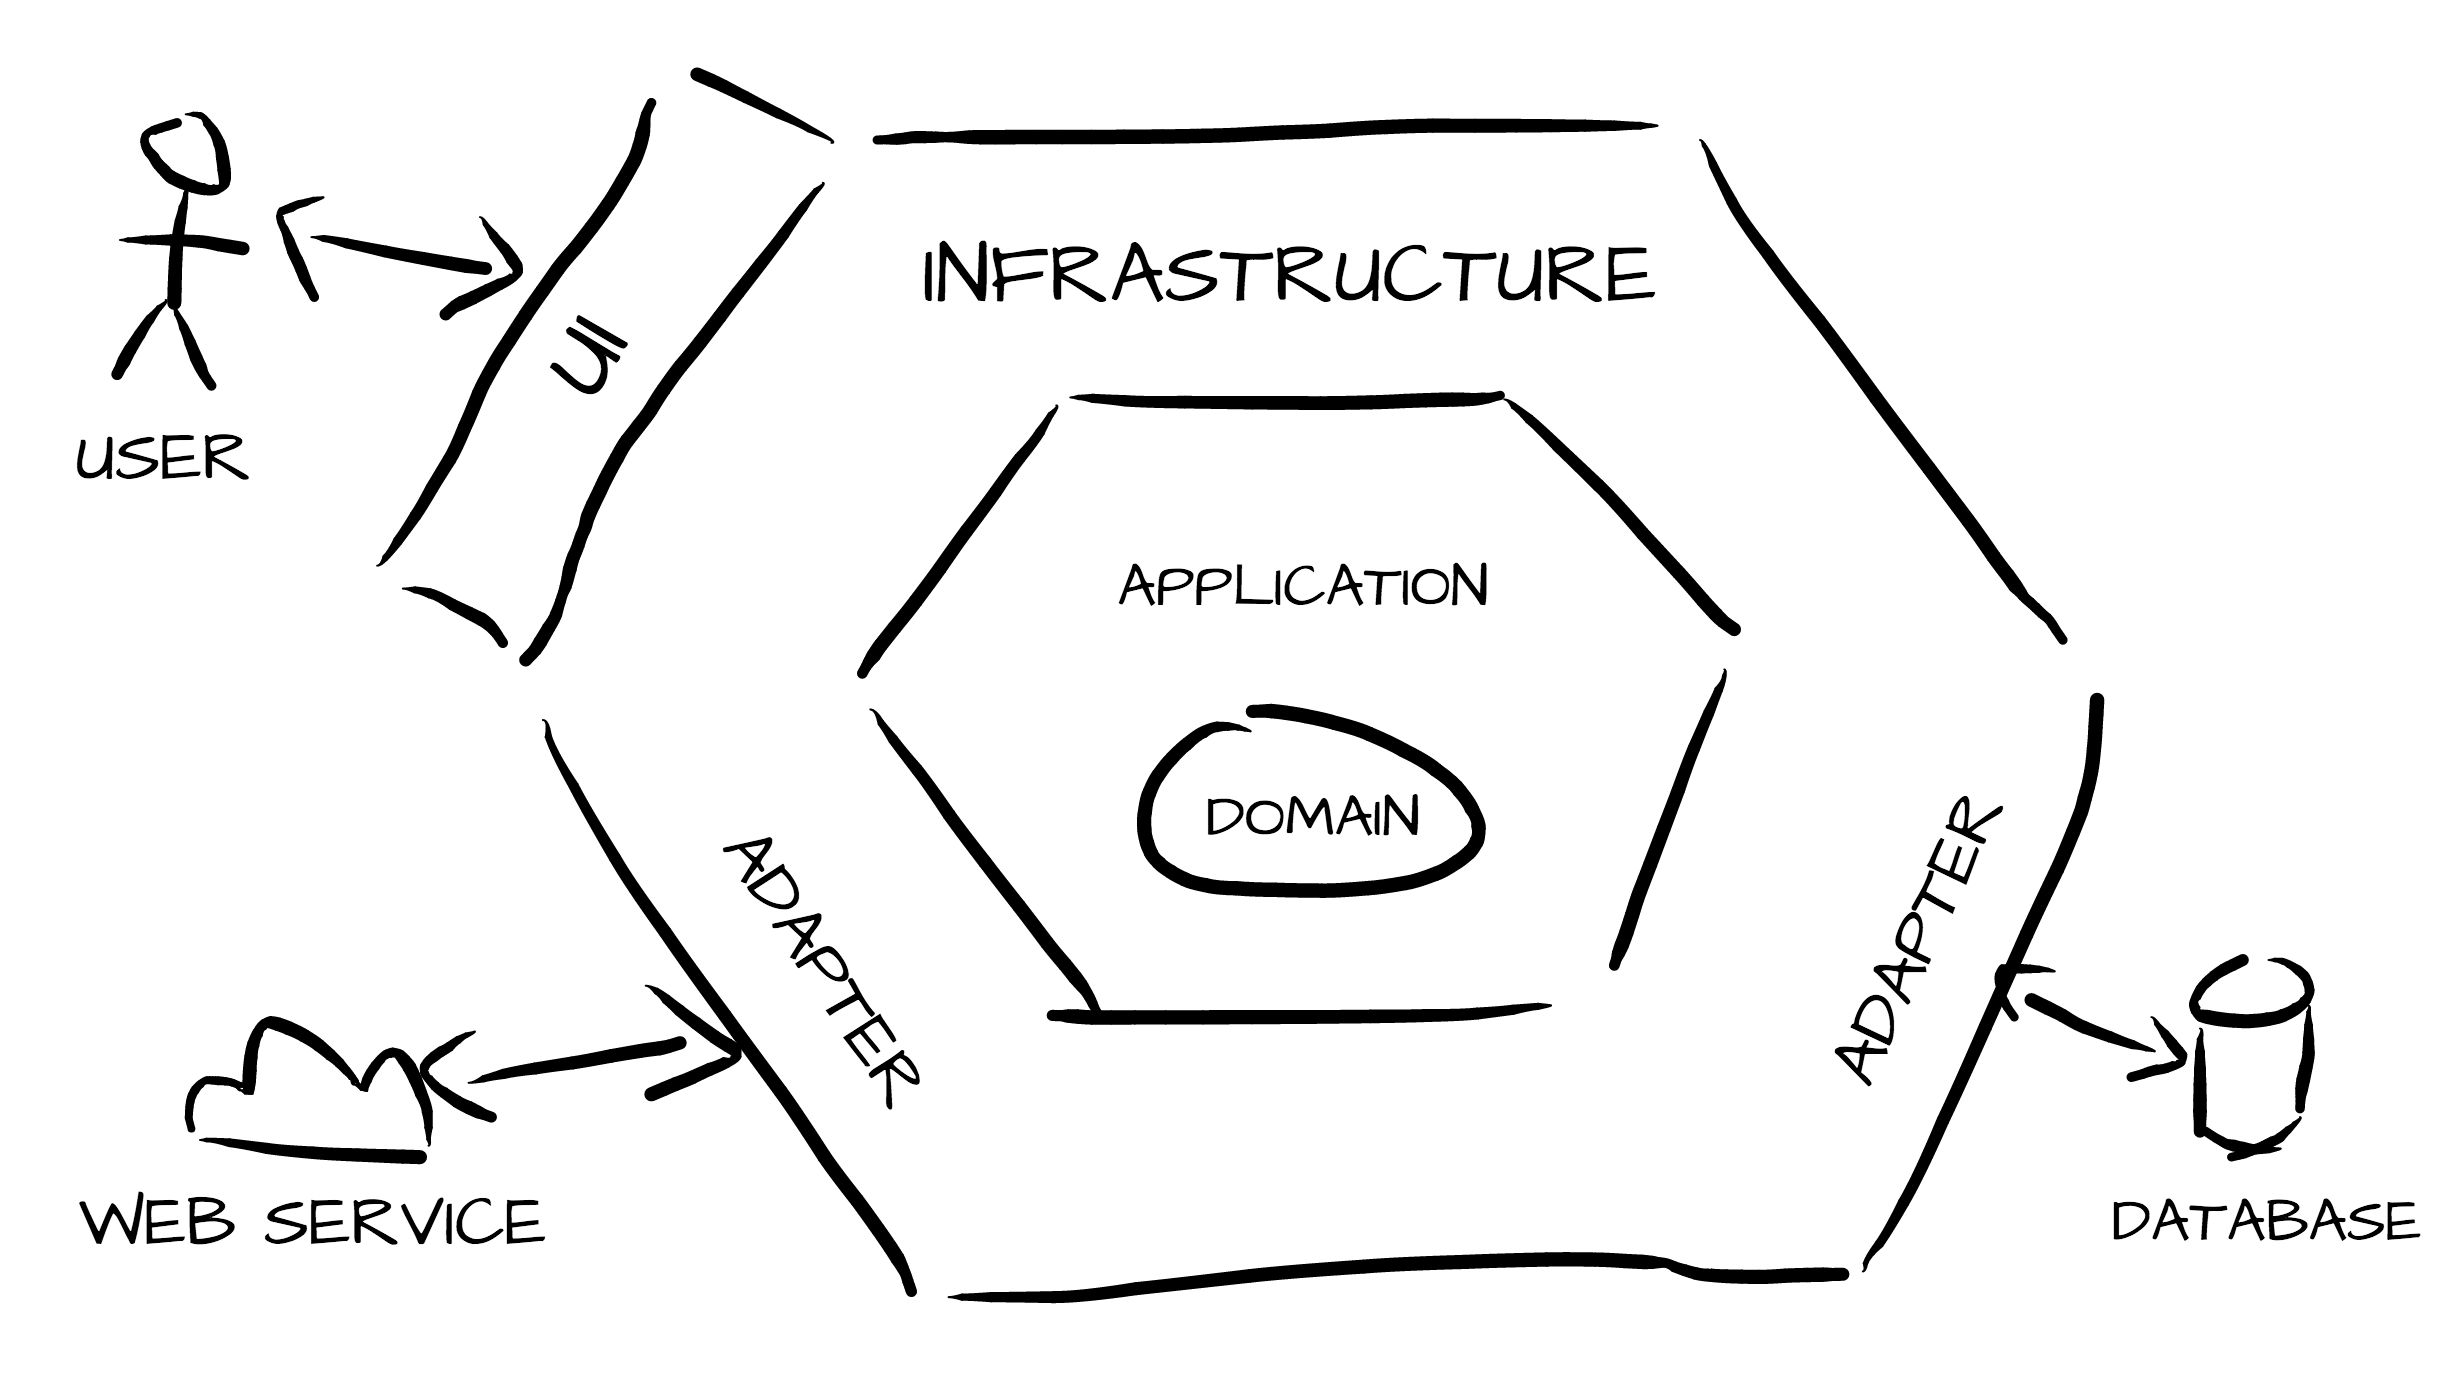
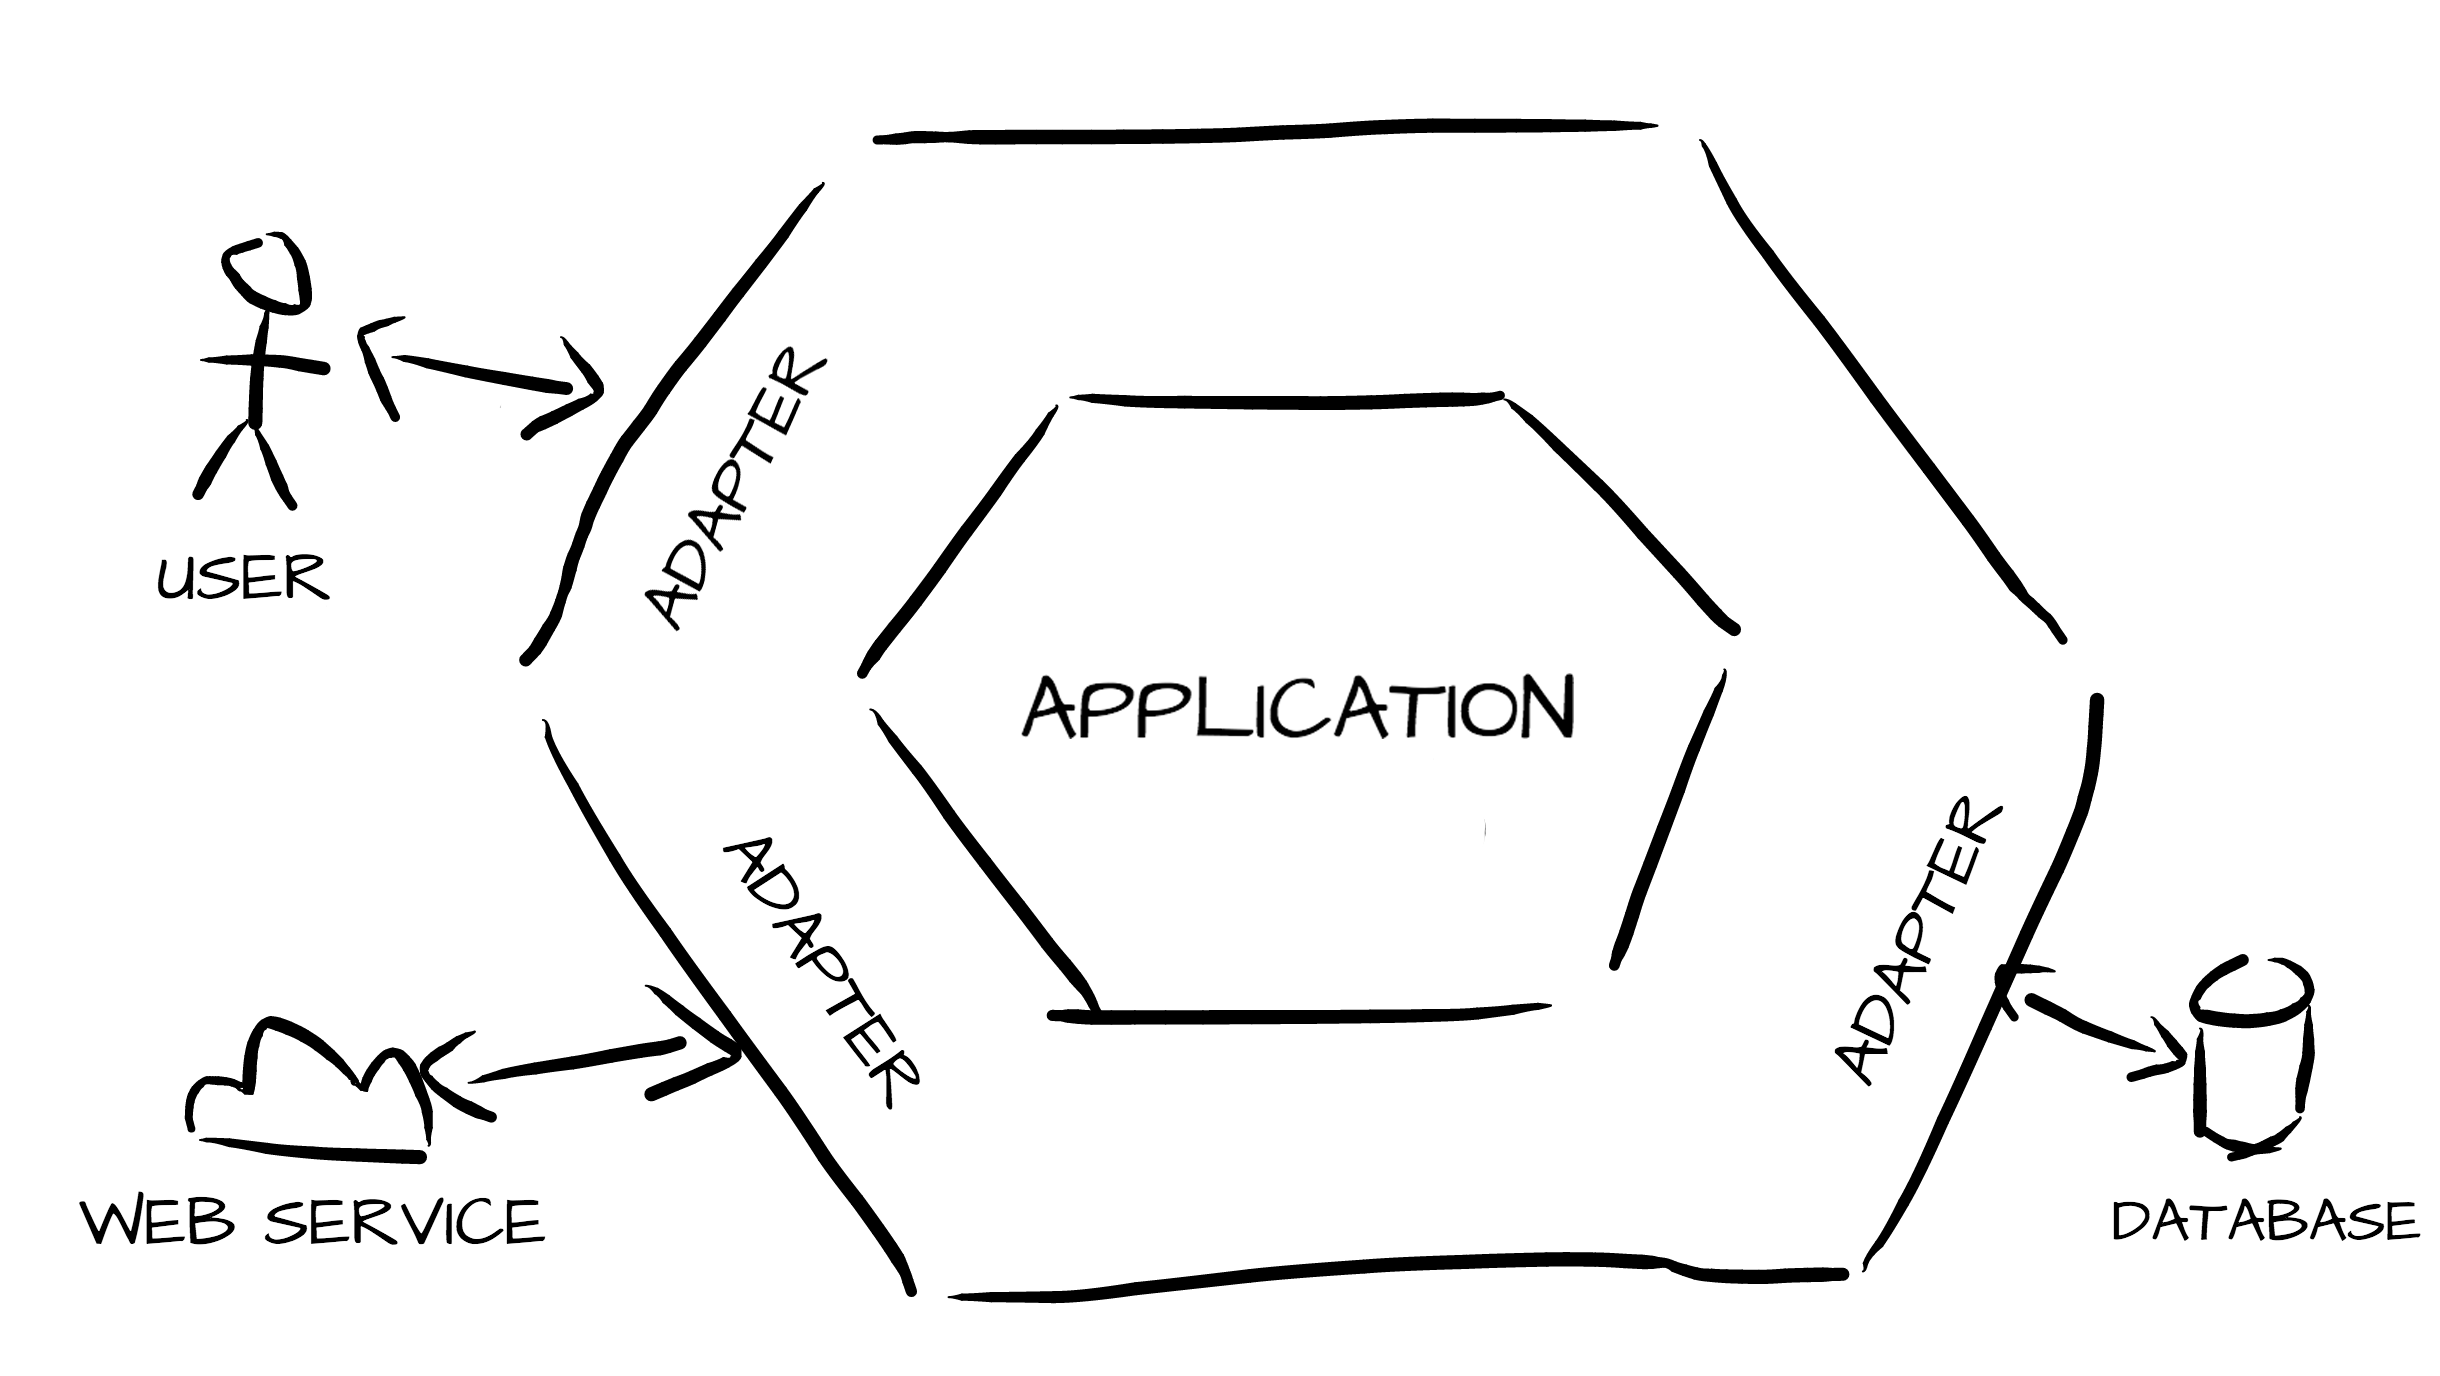
Update hexagonal architecture post

diff --git a/content/dev/architecture-hexagonale-symfony.md b/content/dev/architecture-hexagonale-symfony.md
@@ -17,23 +17,39 @@ author_username:    "mcolin"
 
 # Introduction
 
-L'architecture hexagonale, également appelée *Ports & Adapters*, présente deux caratéristiques lorsqu'on la schématise : une forme **hexagonale** (d'où son nom) et une réprésentation en **couches** ou en **oignon**.
+L'architecture hexagonale, également appelée *Ports & Adapters*, présente deux caratéristiques lorsqu'on la schématise : une forme **hexagonale** (d'où son nom) et une séparation entre l'**application**, l'**extérieur** et une partie contenant des **adapteurs** permettant aux deux de communiquer.
+
+Elle a été pensé par [Alistair Cockburn](http://alistair.cockburn.us/Hexagonal+architecture) dans les années 2000. Son but est de permettre à une application d'être pilotée sans distinction par des utilisateurs, des programmes, des tests automatisés ou des scripts ainsi que d'être développée et testée de façon isolée de son context d'exécution et des ses bases de donées.
 
 ![Architecture hexagonale](/images/posts/2017/hexagonal-architecture.png)
 
 ## Une architecture hexagonale
 
-Le grand principe de l'architecture hexagonale est la **séparation entre le code métier et l'infrastructure**. Le but est de rendre votre code métier **agnostique** de l'architecture sur laquelle votre application sera exécutée. Pour cela vous allez massivement utiliser le **design pattern adapter** et l'**inversion de dépendance**.
+Les deux grands principes de base de l'architecture hexagonale sont :
+
+* La **séparation entre le code métier et le code technique**. Le but est de rendre votre code métier **agnostique** de l'architecture technique dans laquelle votre application sera exécutée. 
+* L'**inversion de dépendance** : votre code technique dépend de votre code métier et non l'inverse comme dans une architecture plus classique. Pour cela vous allez massivement utiliser le **design pattern adapter**.
 
 La forme hexagonale — qui aurait tout aussi bien pu être octogonale ou pentagonale — est là pour mettre en évidence les différentes facettes par lesquelles votre application communique avec l'extérieur via des adapteurs.
 
-L'**infrastructure** c'est tout l'environnement nécessaire à votre application sans faire partie de son coeur métier. Tout ou partie de l'infrastructure peut être remplacé sans impacter votre métier. Cela comprend — entre autres — la persistance (base de données), le système de fichier, le cache, l'applicatif externe (API, binaires, ...), les bibliothèques et frameworks, etc.
+Le **code technique** c'est tout l'environnement nécessaire à votre application sans faire partie de son coeur métier. Tout ou partie de ce code peut être remplacé sans impacter votre métier. Cela comprend — entre autres — la persistance (base de données), le système de fichier, le cache, l'applicatif externe (API, binaires, ...), les bibliothèques et frameworks, etc.
 
 Le **code métier** c'est tout le code qui traduit le métier de votre client. Il s'agit des règles métier, de la logique métier, du code purement applicatif, ... Ce code est irremplaçable et constitue le coeur de votre application.
 
 ## Une architecture en couches (ou en oignon)
 
-L'autre grand principe de l'architecture hexagonale est la séparation du code en couches. Le nombre de couches dépendra de la complexité de votre application et jusqu'où vous souhaitez pousser le découpage, mais vous retrouverez dans sa version complète au moins les couches suivantes (de la plus profonde à la moins profonde) :
+<p class=text-center>
+    <img src="/images/posts/2017/onionman.jpg" alt="Onion man" />
+</p>
+
+Afin d'aller encore un peu plus loin dans le découplage de mon code et de me donner un cadre facilitant la séparation du code technique et du code métier, je me suis également inspiré de deux autres architectures proche dans l'idée :
+ 
+* [The Clean Architecture](https://8thlight.com/blog/uncle-bob/2012/08/13/the-clean-architecture.html) de Uncle Bob
+* [The Onion Architecture](http://jeffreypalermo.com/blog/the-onion-architecture-part-1/) de Jeffrey Palermo
+
+Ces deux architectures séparent le code en différentes couches imbriquées. Le nombre de couches dépendra de la complexité de votre application et jusqu'où vous souhaitez pousser le découplage. 
+
+Pour ma part je suis partie sur les quatres couches suivantes qui représentes assez bien les différentes parties d'une application **Symfony** (de la plus profonde à la moins profonde) :
 
 * Domain
 * Application
@@ -43,14 +59,14 @@ L'autre grand principe de l'architecture hexagonale est la séparation du code e
 L'idée est que chaque couche peut utiliser une couche inférieure mais jamais une couche supérieure, ou en tout cas pas directement.
 
 <p class=text-center>
-    <img src="/images/posts/2017/onionman.jpg" alt="Onion man" />
+    <img src="/images/posts/2017/clean-architecture.png" alt="Clean architecture" />
 </p>
 
 Les seules moyens de traverser une couche supérieure sont les **événements**, les **exceptions** et les **adapteurs**.
 
 Les **événements** et les **exceptions** peuvent être lancés dans une couche inférieure et traités dans une couche supérieure. Quand au design pattern **adapter**, il permet de définir une interface du service dont vous avez besoin mais située dans une couche supérieure. L'adapteur correspondant sera implémenté dans ladite couche et l'injection de dépendances permettra d'assembler le tout en conservant le principe de séparation des couches.
 
-Cette séparation en couches n'est pas indispensable à l'architecture hexagonale mais offre un cadre strict permettant de bien séparer votre code applicatif de votre infrastructure ainsi que les différentes parties de votre code. Une version simplifiée pourrait se contenter de séparer Domain/Application de Infrastructure/UI.
+Cette séparation en couches n'est pas indispensable à l'architecture hexagonale mais offre un cadre strict permettant de bien séparer votre code applicatif de votre infrastructure ainsi que les différentes parties de votre code. Vous pouvez vous contenter de séparer Domain/Application (code métier) de Infrastructure/UI (code technique).
 
 ## Qu'est ce qu'on met dedans ?
 
@@ -167,6 +183,6 @@ Enfin, **utilisez l'injection de dépendance** de Symfony pour injecter vos adap
 
 # Conclusion
 
-Pour conclure, je dirai que l'architecture hexagonale n'est pas une fin en soi ni l'architecture ultime. Je la vois davantage comme un cadre permettant de se contraindre à respecter le principe de séparation entre le code métier et l'infrastructure.
+Pour conclure, je dirai que l'architecture hexagonale n'est pas une fin en soi ni l'architecture ultime. Je la vois davantage comme un cadre permettant de se contraindre à respecter le principe de séparation entre le code métier et code technique.
  
 Comme tout paradigme, il a ses faiblesses et ses exceptions, mais pour l'utiliser sur tous mes projets depuis quelques années, il m'a beaucoup fait progresser vers une conception propre, solide, testable et maintenable.
